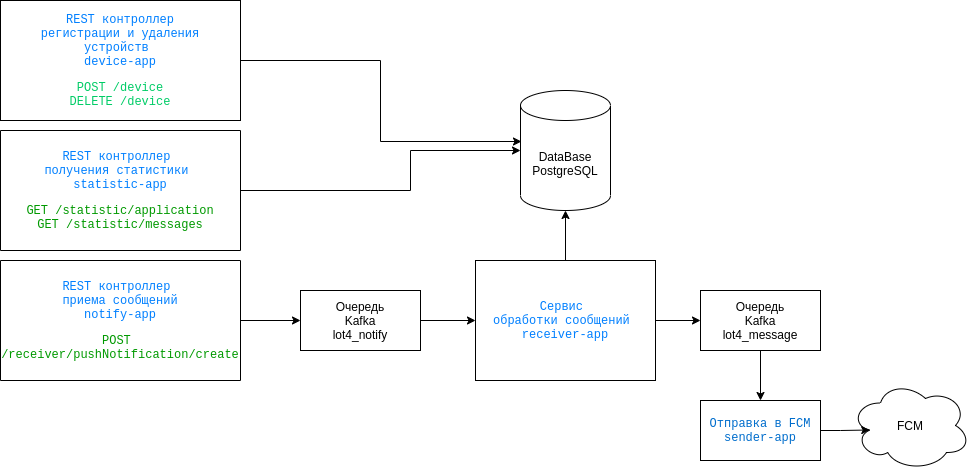
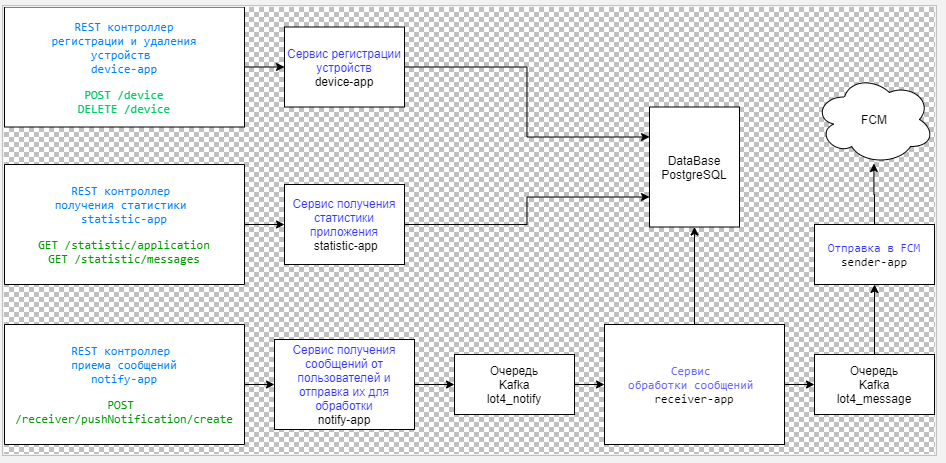
add notify-app

diff --git a/notify-app/src/main/java/ru/stm/lot4/notify/NotifyController.java b/notify-app/src/main/java/ru/stm/lot4/notify/NotifyController.java
@@ -33,7 +33,6 @@ public class NotifyController {
             @ApiResponse(code = 500, message = "Ошибка на стороне сервера", response = String.class)
     })
     public ResponseEntity<String> create(@Valid @RequestBody PushNotificationRequest pushNotificationRequest) {
-        log.info(pushNotificationRequest.toString());
         String uuid = notifyService.sendRequest(pushNotificationRequest);
         return ResponseEntity
                 .status(HttpStatus.CREATED)

diff --git a/dto/src/main/java/ru/stm/lot4/dto/PushNotificationRequest.java b/dto/src/main/java/ru/stm/lot4/dto/PushNotificationRequest.java
@@ -24,6 +24,6 @@ public class PushNotificationRequest {
     @NotBlank
     String body;
     Set<String> phones = new HashSet<>();
-    @NotNull
-    Date date;
+//    @NotNull
+    Date date = new Date();
 }
